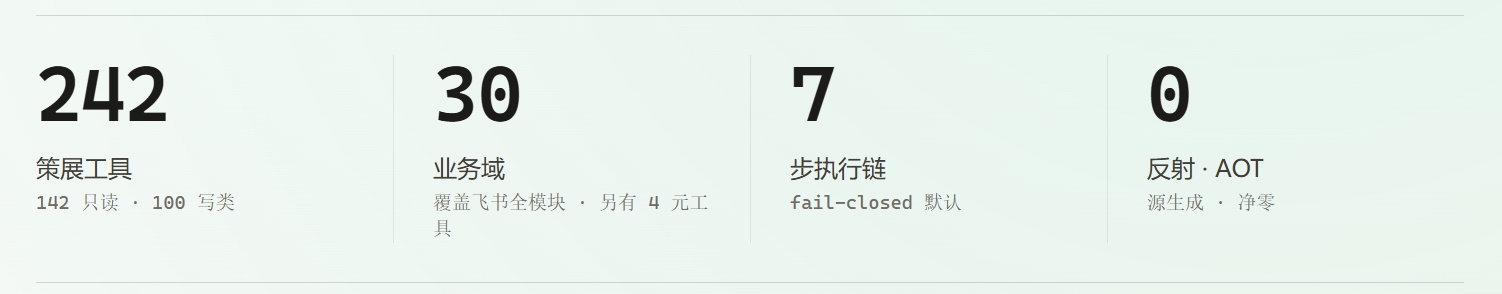
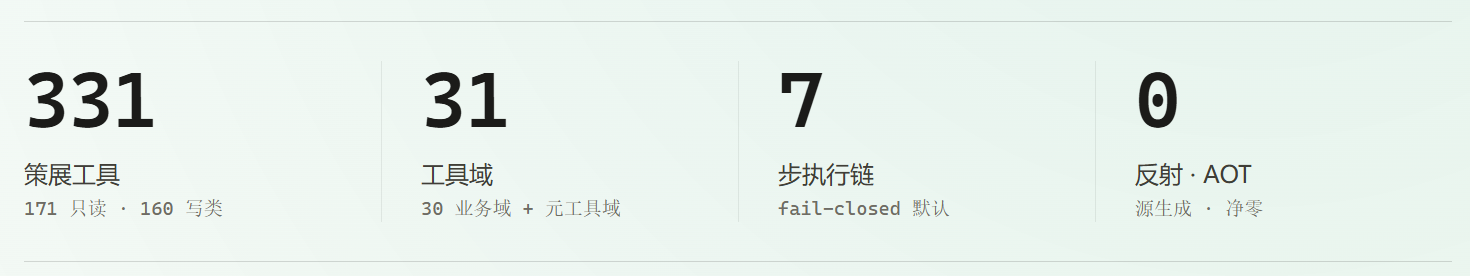
docs: 更新飞书AI Agent文档及相关图片，调整工具统计数据
更新了Mud.Feishu.AI的说明文档和相关图片，调整了工具统计数据：
- 将策展工具数量从242个更新为331个，其中只读工具171个、写类工具160个，高危写工具38个
- 将业务域数量从30个更新为31个，明确包含30个业务域和1个元工具域
- 更新了.NET支持版本，移除.NET 9，保留.NET 6/8/10
- 调整了统计图表中的比例和数值，匹配新的工具分类数据

diff --git a/documents/AIAgent/mud-feishu-ai-poster.html b/documents/AIAgent/mud-feishu-ai-poster.html
@@ -396,8 +396,8 @@
     border:1px solid var(--line);background:var(--surface-2);
   }
   .split-bar span{display:block;height:100%;}
-  .split-bar .sb-read{flex:142;background:linear-gradient(90deg,var(--accent-400),var(--accent-300));}
-  .split-bar .sb-write{flex:100;background:linear-gradient(90deg,var(--guard-400),var(--guard-200));}
+  .split-bar .sb-read{flex:171;background:linear-gradient(90deg,var(--accent-400),var(--accent-300));}
+  .split-bar .sb-write{flex:160;background:linear-gradient(90deg,var(--guard-400),var(--guard-200));}
   .split-legend{
     display:flex;flex-wrap:wrap;gap:18px;margin-top:12px;
     font-size:13.5px;color:var(--fg-dim);
@@ -736,7 +736,7 @@
         <span class="brand-text">MUD<i> · </i>FEISHU</span>
         <span class="brand-chip">AI 模块</span>
       </div>
-      <div class="head-meta">.NET 8 / 9 / 10 · AOT · Microsoft.Agents.AI v1.25.0</div>
+      <div class="head-meta">.NET 6 / 8 / 10 · AOT · Microsoft.Agents.AI v1.25.0</div>
     </header>
 
     <!-- hero -->
@@ -748,7 +748,7 @@
       </h1>
       <p class="subtitle">编译期契约 &nbsp;·&nbsp; 七步安全执行链 &nbsp;·&nbsp; 人工确认管线</p>
       <p class="deck">
-        把 Mud.Feishu 的 <b>1268</b> 个强类型 SDK 方法，策展为 <b>242</b> 个模型可调用的 Function Call ——
+        把 Mud.Feishu 的 <b>1268</b> 个强类型 SDK 方法，策展为 <b>331</b> 个模型可调用的 Function Call ——
         每个工具都带风险等级、权限范围与幂等语义；写操作先经人工确认，安全默认不可协商。
       </p>
     </section>
@@ -756,12 +756,12 @@
     <!-- stats -->
     <section class="stats">
       <div class="stat">
-        <div class="stat-num">242</div>
-        <div class="stat-label">策展工具<span>142 只读 · 100 写类</span></div>
+        <div class="stat-num">331</div>
+        <div class="stat-label">策展工具<span>171 只读 · 160 写类</span></div>
       </div>
       <div class="stat">
-        <div class="stat-num">30</div>
-        <div class="stat-label">业务域<span>覆盖飞书全模块 · 另有 4 元工具</span></div>
+        <div class="stat-num">31</div>
+        <div class="stat-label">工具域<span>30 业务域 + 元工具域</span></div>
       </div>
       <div class="stat">
         <div class="stat-num">7</div>
@@ -799,7 +799,7 @@
             <span class="fn-line"></span>
           </div>
           <div class="fn-side is-dst">
-            <div class="fn-num">242</div>
+            <div class="fn-num">331</div>
             <div class="fn-cap">编译期工具</div>
             <div class="fn-sub">强类型 Schema</div>
           </div>
@@ -811,14 +811,14 @@
             <span class="sb-write"></span>
           </div>
           <div class="split-legend">
-            <span class="lg"><i class="dot read"></i>只读 <b>142</b></span>
-            <span class="lg"><i class="dot write"></i>写类 <b>100</b></span>
-            <span class="lg"><i class="dot risk"></i>高危写 <b class="risk">23</b> · 需宿主授权</span>
+            <span class="lg"><i class="dot read"></i>只读 <b>171</b></span>
+            <span class="lg"><i class="dot write"></i>写类 <b>160</b></span>
+            <span class="lg"><i class="dot risk"></i>高危写 <b class="risk">38</b> · 需宿主授权</span>
           </div>
         </div>
 
         <div class="card-body" style="margin-bottom:14px;">
-          不是把 <b>1268</b> 个裸方法无差别丢给模型 —— 而是按高频工作流策展为 <b>242</b> 个工具，
+          不是把 <b>1268</b> 个裸方法无差别丢给模型 —— 而是按高频工作流策展为 <b>331</b> 个工具，
           每个都有强类型 Schema、风险分级、<b>idempotency_key</b> 与 per-tool affordance 决策指导。
         </div>
 
@@ -836,7 +836,7 @@
         </div>
 
         <div class="domain-note">
-          30 业务域 &nbsp;+&nbsp; 4 个元工具 &nbsp;·&nbsp; tool_search / schema_read / capability_lookup / guidance_read
+          31 个工具域 &nbsp;·&nbsp; 30 业务域 + 1 个元工具域（tool_search / schema_read / capability_lookup / guidance_read）
         </div>
       </article>
 
@@ -920,7 +920,7 @@
         <div class="mini-list">
           <div class="mini">
             <svg width="16" height="16" viewBox="0 0 24 24" fill="none" stroke="currentColor" stroke-width="2" stroke-linecap="round" stroke-linejoin="round"><path d="M20 6 9 17l-5-5"/></svg>
-            <span><b>Skills 导出</b>：30 业务域 <b>skills/feishu-{domain}/SKILL.md</b> 随 NuGet 包分发，仓外 Agent 直接加载飞书域知识。</span>
+            <span><b>Skills 导出</b>：31 个工具域 <b>skills/feishu-{domain}/SKILL.md</b> 随 NuGet 包分发，仓外 Agent 直接加载飞书域知识。</span>
           </div>
           <div class="mini">
             <svg width="16" height="16" viewBox="0 0 24 24" fill="none" stroke="currentColor" stroke-width="2" stroke-linecap="round" stroke-linejoin="round"><path d="M20 6 9 17l-5-5"/></svg>
@@ -1066,9 +1066,9 @@
             <span class="tm-pkg">Mud.Feishu.AI.Tools · 编译期生成</span>
           </div>
           <div class="tm-nodes">
-            <div class="tm-node em"><b>242 策展工具</b><i>强类型 Schema · 零反射</i></div>
-            <div class="tm-node"><b>142 只读</b><i>读类 Function Call</i></div>
-            <div class="tm-node gu"><b>100 写类</b><i>含 23 高危 · 需宿主授权</i></div>
+            <div class="tm-node em"><b>331 策展工具</b><i>强类型 Schema · 零反射</i></div>
+            <div class="tm-node"><b>171 只读</b><i>读类 Function Call</i></div>
+            <div class="tm-node gu"><b>160 写类</b><i>含 38 高危 · 需宿主授权</i></div>
           </div>
         </div>
 
@@ -1139,7 +1139,7 @@
         <div class="vs-row">
           <span class="vs-k">能力面</span>
           <span class="vs-a">可直发任意开放平台端点</span>
-          <span class="vs-b">242 个编译期策展工具，<b>无通用裸 api</b></span>
+          <span class="vs-b">331 个编译期策展工具，<b>无通用裸 api</b></span>
         </div>
         <div class="vs-row">
           <span class="vs-k">凭证 · 租户</span>
@@ -1154,7 +1154,7 @@
         <div class="vs-row">
           <span class="vs-k">契约约束</span>
           <span class="vs-a">运行时解释，无编译期契约</span>
-          <span class="vs-b">源挂钩交叉校验 <b>MUDFT0xx</b> · 禁与 SDK 脱钩</span>
+          <span class="vs-b">源挂钩交叉校验 <b>MUDFT019</b> · 禁与 SDK 脱钩</span>
         </div>
         <div class="vs-row">
           <span class="vs-k">部署形态</span>
